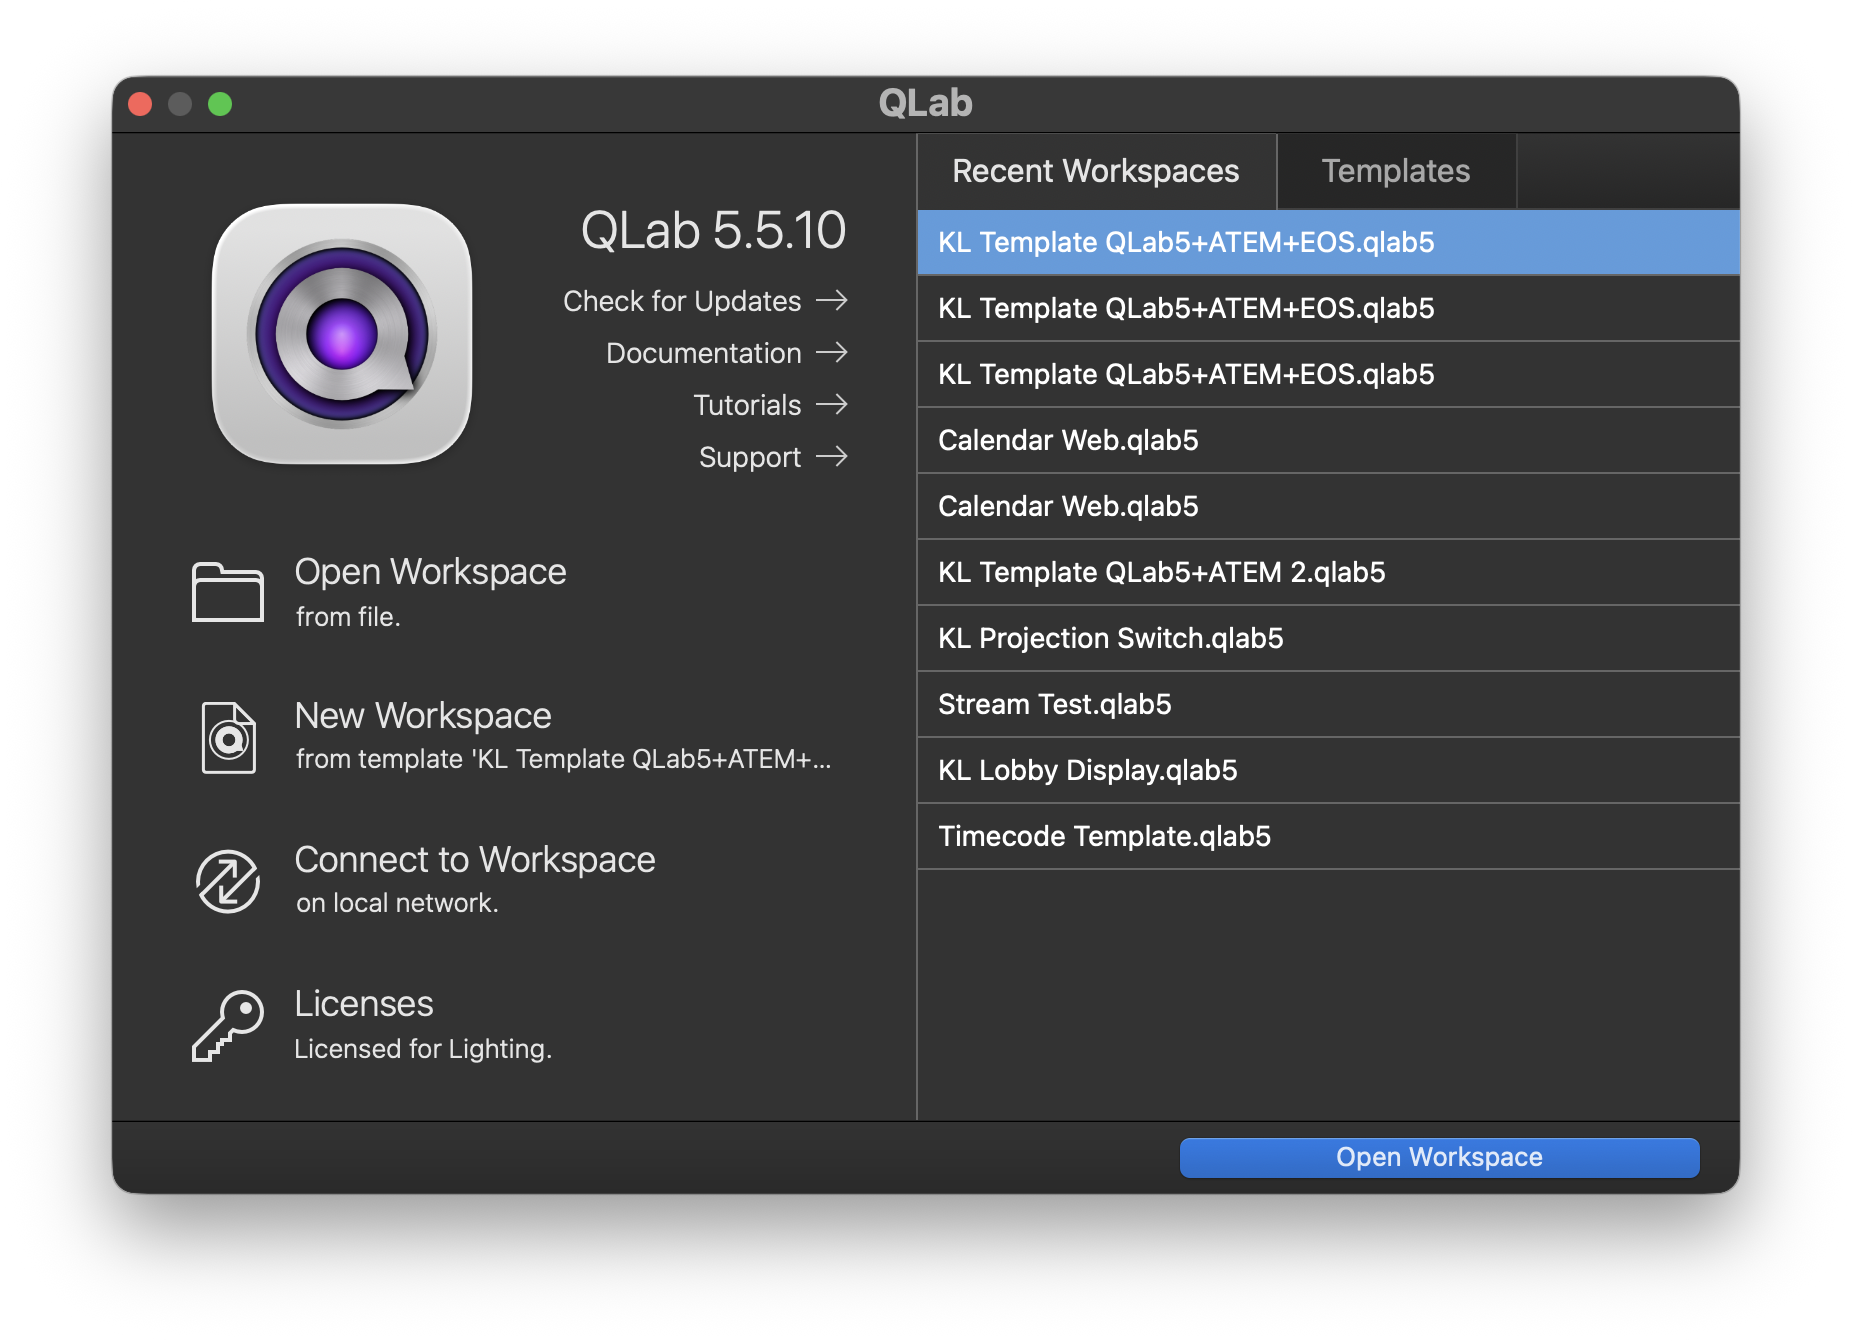
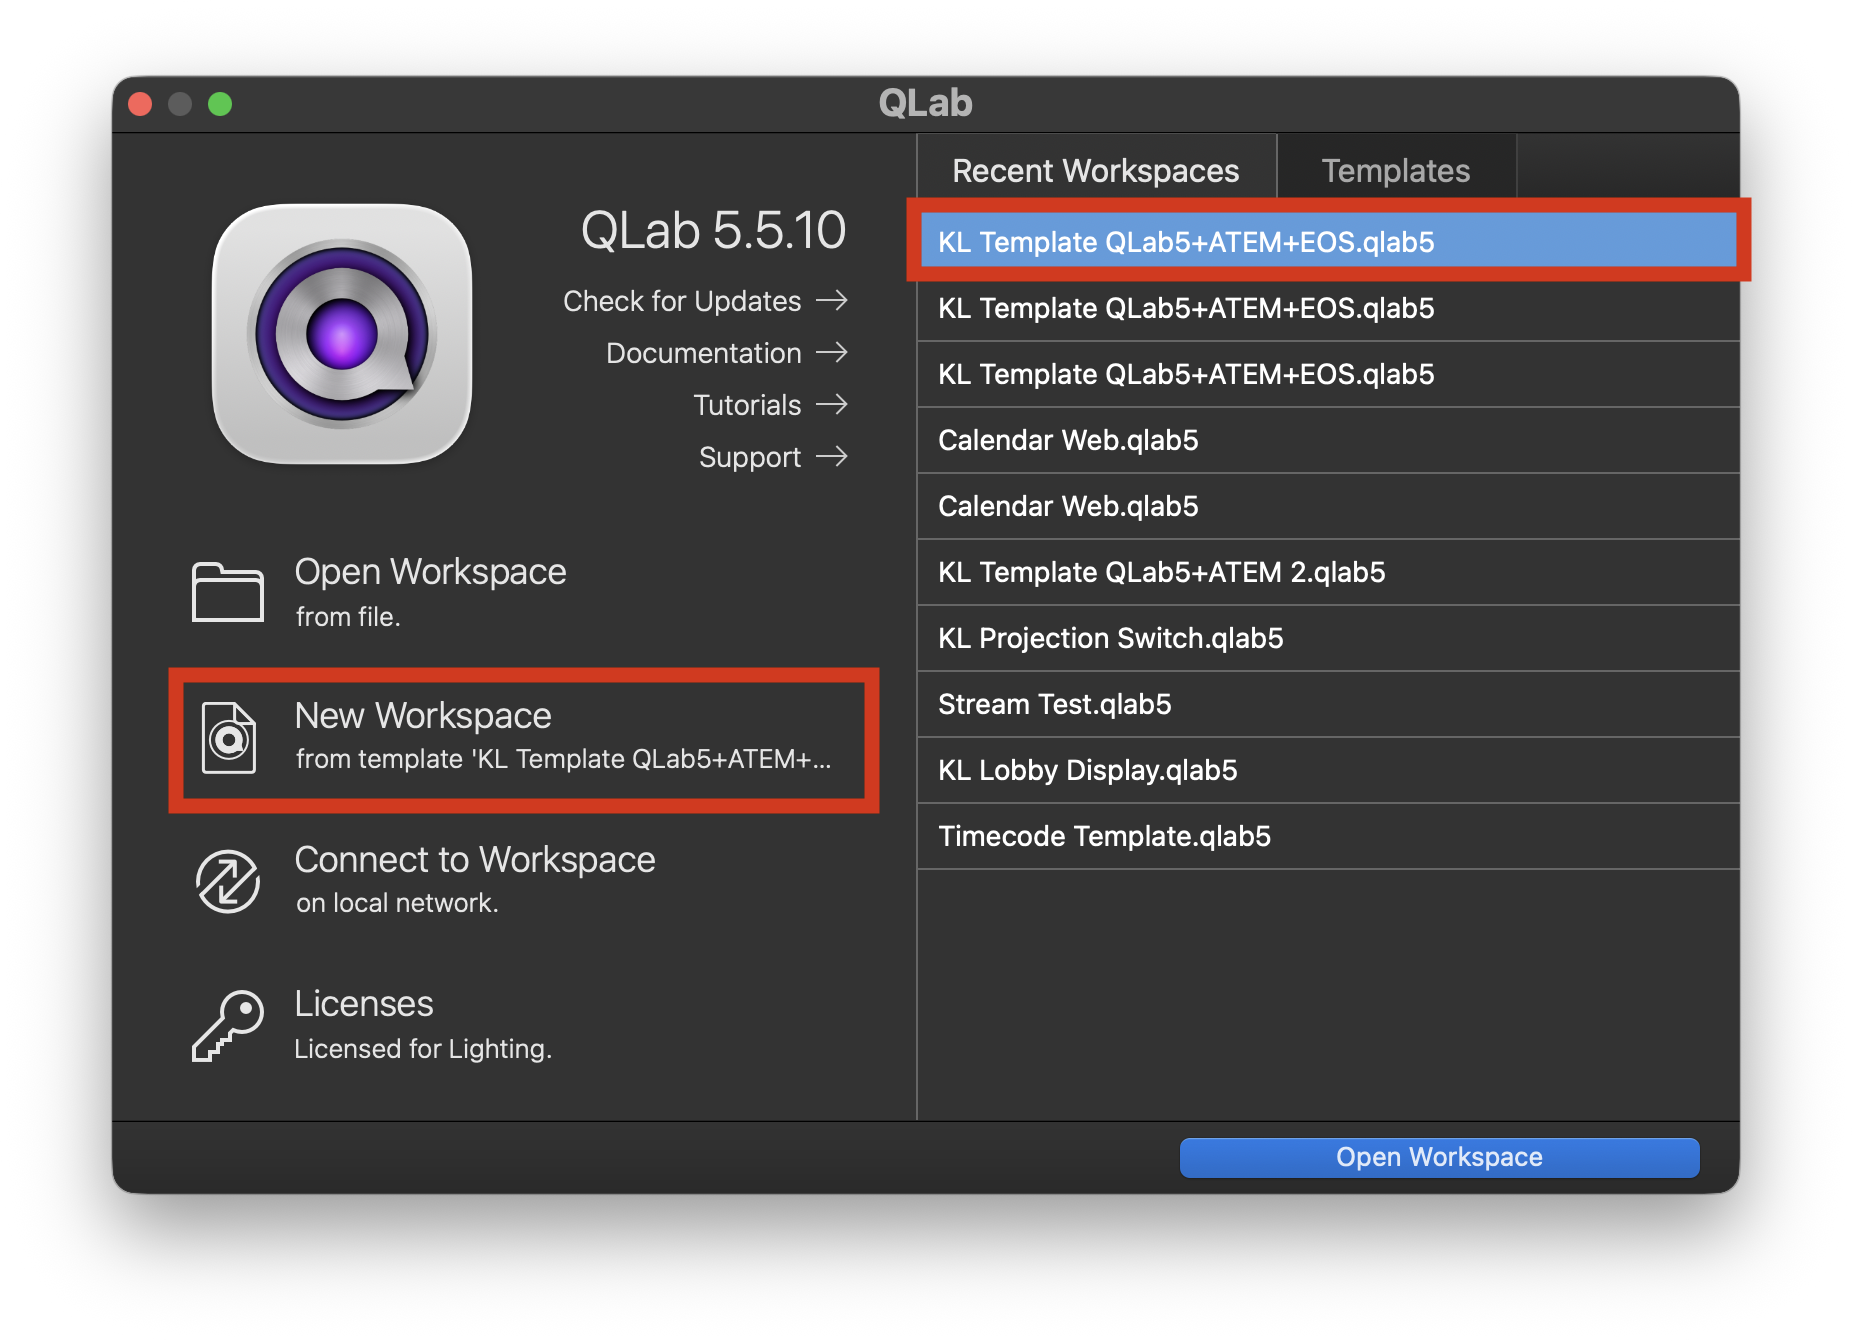
workspace start

Changed region(s): [[0.4617, 0.1222, 0.9541, 0.2139], [0.0923, 0.4888, 0.4924, 0.611]]

diff --git a/_includes/footer.html b/_includes/footer.html
@@ -3,7 +3,11 @@
                 <div class="col-lg-12 footer">
                &copy;{{ site.time | date: "%Y"  }} {{site.company_name}}. All rights reserved. <br />
 {% if page.last_updated %}<span>Page last updated:</span> {{page.last_updated}}<br/>{% endif %} Site last generated: {{ site.time | date: "%b %-d, %Y"  }} <br />
-<p><img src="{{ "images/company_logo.png" }}" alt="Company logo"/></p>
+<p>
+  <img src="{{ site.baseurl }}/images/{{ site.company_logo }}" 
+       alt="Company logo" 
+       style="max-width: 100px" />
+</p>
                 </div>
             </div>
 </footer>

diff --git a/index.md b/index.md
@@ -15,21 +15,32 @@ Follow these instructions to get started on the Video side of production.
 
 ### 1. Open the template
 
-If you haven't already, make sure you launch **QLab 5** {% include inline_image.html
-file="qlab-5-icon_size.png" alt="QLab5 button" %} as opposed to **QLab 4** {% include inline_image.html file="qlab-4-icon_size.png" alt="QLab4 button" %} in the dock. When you do, you will be greeted with an interface that asks you to select the template. You want to select “**KL Template QLab5+ATEM+EOS**”:
+If you haven't already, make sure you launch **QLab 5** {% include inline_image.html file="qlab-5-icon_size.png" alt="QLab5 button" %} as opposed to **QLab 4** {% include inline_image.html file="qlab-4-icon_size.png" alt="QLab4 button" %} in the dock. When you do, you will be greeted with an interface that asks you to select the template. You want to select “**KL Template QLab5+ATEM+EOS**”:
 
 {% include image.html file="QLab-Open-Screen.png" alt="QLab5" caption="This is a sample QLab Homescreen." %}
 
 {% include note.html content=" Your home screen will look different from this depending on what has been opened in the past. QLab ranks the list of show files by how recently it was open (higher is more recent). If you can't find the template, you have a few options:
 
-<br>• Check the **desktop** of your computer.
-<br>• Select **New Workspace from template \"KL Template...\"**.
-<br>• Download from <a alt='KL-Showfile' href='https://github.com/kwlyu/kph-documentation/raw/refs/heads/main/showfiles/KL%20Template%20QLab5+ATEM+EOS.qlab5'>here</a>.<br>
+<br>1. Check the **desktop** of your computer.
+<br>2. Select **New Workspace from template \"KL Template...\"**.
+<br>3. Download from <a alt='KL-Showfile' href='https://github.com/kwlyu/kph-documentation/raw/refs/heads/main/showfiles/KL%20Template%20QLab5+ATEM+EOS.qlab5'>here</a>.<br>
 
 Understand that option 2 and 3 might present you with obsolete show files." %}
 
 Check [here](/mydoc_troubleshooting.html) for common troubleshooting techniques if you have trouble getting started.
 
+### 2. Save the template as a new file
+
+Once you're in, you will see the following workspace:
+{% include image.html file="qlab-workspace.png" alt="QLab5" caption="This is a sample QLab Workspace." %}
+
+Check [here](/mydoc_troubleshooting.html) if you see <a href="#" data-toggle="tooltip" data-original-title="{{site.data.glossary.broken_cue}}">red X</a> warnings. (Your app title bar won't be purple. I remoted into the system when I wrote this, which is why it's showing purple.)
+
+{% include important.html content="The first thing you want to do when you open a template is to **save it as a new file**, so you don't overwrite the template. " %}
+
+To do this, go to `File` and select `Save As...`. Alternatively, press `command+shift+escape`.
+{% include image.html file="qlab-save-as.png" alt="QLab5"%}
+For good practice, keep the files organized in a folder with consistent naming conventions. An example of such a
 
 <!-- First, download or clone the theme from the [Github repo](https://github.com/tomjoht/documentation-theme-jekyll). Most likely you won't be pulling in updates once you start customizing the theme, so downloading the theme (instead of cloning it) probably makes the most sense. In Github, click the **Clone or download** button, and then click **Download ZIP**.
 
